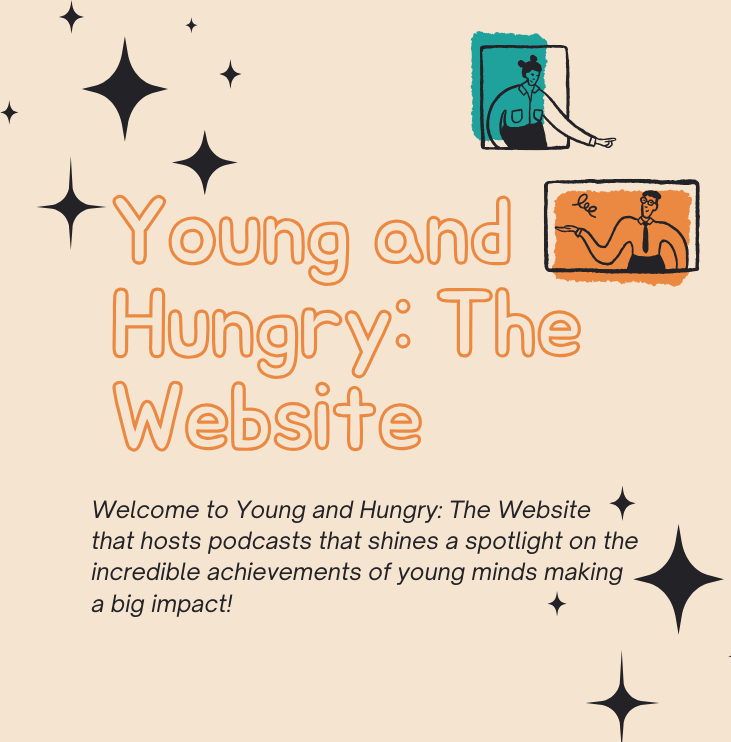
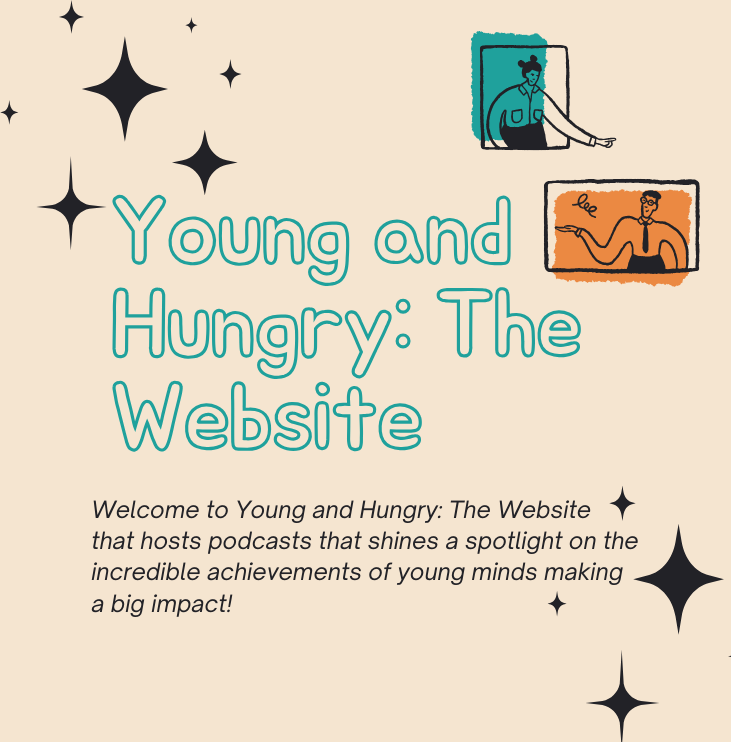
homepage completed

Changed region(s): [[0.1505, 0.248, 0.6019, 0.6199], [0.5116, 0.248, 0.8126, 0.496]]

diff --git a/frontend/src/pages/App.jsx b/frontend/src/pages/App.jsx
@@ -53,7 +53,9 @@ function App() {
 
   return (
 <div className="bg-[#f5e5d0] min-w-[538px] min-h-screen">
-<NavBar />
+  <div className="sticky top-0 z-50">
+    <NavBar />
+  </div>
       <header className="absolute inset-x-0 top-0 z-50">
         <Dialog open={mobileMenuOpen} onClose={setMobileMenuOpen} className="lg:hidden">
           <div className="fixed inset-0 z-50" />
@@ -106,8 +108,6 @@ function App() {
       <div
         className="relative isolate px-4 sm:px-6 pt-14 lg:px-8 bg-hero bg-cover bg-center bg-no-repeat min-h-[40vh] sm:min-h-[60vh] lg:min-h-[80vh] w-full"
       >
-
-
         <div
           aria-hidden="true"
           className="absolute inset-x-0 -top-40 -z-10 transform-gpu overflow-hidden blur-3xl sm:-top-80"
@@ -121,7 +121,7 @@ function App() {
         </div>
         <div className="mx-auto max-w-2xl py-32 sm:py-48 lg:py-56">
           <div className="hidden sm:mb-8 sm:flex sm:justify-center">
-            <div className="relative rounded-full px-3 py-1 text-sm/6 text-gray-600 ring-1 ring-gray-900/10 hover:ring-gray-900/20">
+            <div className="relative rounded-full px-3 py-1 text-sm/6 text-gray-600">
             &nbsp;
             </div>
           </div>
@@ -145,7 +145,7 @@ function App() {
           <div className="mt-10 sm:-mt-30">
             <a
               href={"#"}
-              className="bg-[#EB8942] text-white font-bold px-6 py-3 md:px-10 md:py-5 md:text-xl rounded-full border-2 border-black shadow-md hover:bg-[#e6b722] transition"
+              className="bg-[#EB8942] text-white font-bold px-6 py-3 md:px-10 md:py-5 md:text-xl rounded-full border-2 border-black shadow-[8px_8px_0px_rgba(0,0,0,1)] hover:bg-[#1FA19C] transition"
             >
               PODCASTS
             </a>
@@ -153,7 +153,7 @@ function App() {
           <div className="mt-6 sm:-mt-30">
             <a
               href={"#"}
-              className="bg-[#FFC72C] text-black font-bold px-6 py-3 md:px-10 md:py-5 md:text-xl rounded-full border-2 border-black shadow-md hover:bg-[#e6b722] transition"
+              className="bg-[#FFC72C] text-black font-bold px-6 py-3 md:px-10 md:py-5 md:text-xl rounded-full border-2 border-black shadow-[8px_8px_0px_rgba(0,0,0,1)] hover:bg-[#1FA19C] transition"
             >
               SEE MORE
             </a>
@@ -198,16 +198,14 @@ function App() {
                 </div>
 
                 {/* Podcast Title */}
-                <h3 className="mt-6 text-lg font-bold text-gray-900">
-                  <a href={product.href} className="hover:text-[#EB8942]">
-                    {product.name}
-                  </a>
+                <h3 className="mt-6 text-lg font-bold" style={{color: '#FA5857'}}>
+                  {product.name}
                 </h3>
 
                 {/* Podcast Description */}
                 <p className="text-gray-600 text-sm mt-2">
                   Mindy and Guy Raz head to the community swimming pool to try out for his DREAM JOB! 
-                  There’s just one problem; all the other applicants are SEA LIONS! Classic mix-up!
+                  There&apos;s just one problem; all the other applicants are SEA LIONS! Classic mix-up!
                 </p>
 
                 {/* "See More" Button */}
@@ -243,7 +241,7 @@ function App() {
         </div>
         <div className="mx-auto max-w-2xl py-48 sm:py-64 lg:py-72 max-h-2xl">
           <div className="hidden sm:mb-8 sm:flex sm:justify-center">
-            <div className="relative rounded-full px-3 py-1 text-sm/6 text-gray-600 ring-1 ring-gray-900/10 hover:ring-gray-900/20">
+            <div className="relative rounded-full px-3 py-1 text-sm/6 text-gray-600">
             &nbsp;
             </div>
           </div>
@@ -264,18 +262,18 @@ function App() {
 
         </div>
         <div className="flex flex-col sm:mt-10 sm:flex-row sm:justify-center justify-center items-center gap-3 mb-16 w-full px-6">
-          <div className="-mt-35 sm:-mt-82 sm:-ml-70">
+          <div className="-mt-15 sm:-mt-40 sm:-ml-70">
           <a
             href={"#"}
-            className="bg-[#EB8942] text-white font-bold px-6 py-3 md:px-10 md:py-5 md:text-xl rounded-full border-2 border-black shadow-md hover:bg-[#e6b722] transition"
+            className="bg-[#EB8942] text-white font-bold px-6 py-3 md:px-10 md:py-5 md:text-xl rounded-full border-2 border-black shadow-[8px_8px_0px_rgba(0,0,0,1)] hover:bg-[#FA5857] transition"
             >
             PARENTS
           </a>
         </div>
-        <div className="-mt-27 sm:-mt-82">
+        <div className="-mt-27 sm:-mt-40">
           <a
             href={"#"}
-            className="bg-[#FFC72C] text-black font-bold px-6 py-3 md:px-10 md:py-5 md:text-xl rounded-full border-2 border-black shadow-md hover:bg-[#e6b722] transition"
+            className="bg-[#FFC72C] text-black font-bold px-6 py-3 md:px-10 md:py-5 md:text-xl rounded-full border-2 border-black shadow-[8px_8px_0px_rgba(0,0,0,1)] hover:bg-[#FA5857] transition"
             >
             TEACHERS
           </a>
@@ -297,7 +295,47 @@ function App() {
         </div>
       </div>
 
-    </div>
+      <div className="bg-[#EB8942] py-16 border-b-5 border-black">
+        <div className=" mx-auto max-w-2xl px-4 pb-16 sm:px-6 lg:max-w-7xl lg:px-8">
+          <h1 className="underline decoration-dashed text-[50rem] font-bold text-center text-black" style={{marginBottom: '5rem', fontFamily: "Jua, sans-serif", fontSize: '5rem'}}>About Us</h1>
+
+          {/* Grid Layout for Podcasts */}
+          <div className="grid grid-cols-1 gap-8 sm:grid-cols-2 lg:grid-cols-2">
+              <div className="flex justify-center items-center">
+              <img className="justify-center rounded-full w-96 h-96 animate-[spin_5s_linear_infinite]" src="../../public/LogoAbout.png" alt="Young and Hungry Logo"/>
+
+              </div>
+              <div className="bg-[#ABE8DD] rounded-lg shadow-[8px_8px_0px_rgba(0,0,0,1)] border-4 border-black p-8">
+                <h2 className="text-3xl font-bold mb-4" style={{fontFamily: "Jua, sans-serif"}}>Welcome to Young and Hungry!</h2>
+                <p className="text-lg leading-relaxed">
+                Young and Hungry is hosted by Dr. Sean Young, a UC Irvine Emergency Medicine and Informatics professor, and his two kids.
+                <br></br>
+                <br></br>
+                Join us as we dive into the stories of extraordinary children who are already leaving their mark on the world, whether they&apos;re budding entrepreneurs, elite athletes, or future leaders in their fields.
+                <br></br>
+                <br></br>
+Each episode features inspiring conversations with these talented kids, exploring their journeys, challenges, and the support that has helped them along the way. Whether you're a parent, a teacher, or a young achiever yourself, Young and Hungry is your go-to source for inspiration and encouragement.
+                </p>
+                <div className="flex justify-center items-center">
+                <a
+                  href={"#"}
+                  className="bg-[#EB8942] text-white font-bold px-6 py-3 md:px-10 md:py-5 md:text-xl rounded-full border-2 border-black shadow-[8px_8px_0px_rgba(0,0,0,1)] hover:text-black hover:bg-[#FFC72C] transition"
+                  >
+                  LEARN MORE
+                </a>
+              </div>
+              </div>
+             
+              </div>
+            </div>    
+          </div>
+        <footer className="bg-[#FFC72C] text-black py-4 text-center">
+          <p>
+            &copy; 2025 Young and Hungry. All rights reserved.
+          </p>
+        </footer>
+  </div>
+
   )
 }
 

diff --git a/frontend/src/pages/Navbar.jsx b/frontend/src/pages/Navbar.jsx
@@ -2,10 +2,11 @@ import { Disclosure, DisclosureButton, DisclosurePanel, Menu, MenuButton, MenuIt
 import { Bars3Icon, BellIcon, XMarkIcon } from '@heroicons/react/24/outline'
 
 const navigation = [
-  { name: 'Dashboard', href: '#', current: true },
-  { name: 'Team', href: '#', current: false },
-  { name: 'Projects', href: '#', current: false },
-  { name: 'Calendar', href: '#', current: false },
+  { name: 'Home', href: '#', current: true },
+  { name: 'Podcast', href: '#', current: false },
+  { name: 'Newsletter', href: '#', current: false },
+  { name: 'Forum', href: '#', current: false },
+  { name: 'About', href: '#', current: false },
 ]
 
 function classNames(...classes) {
@@ -122,7 +123,7 @@ export default function Navbar() {
               aria-current={item.current ? 'page' : undefined}
               className={classNames(
                 item.current ? 'bg-[#EB8942] text-white' : 'text-[#f7ceb1] hover:bg-[#EB8942] hover:text-white',
-                'block rounded-md px-4 py-3 text-lg font-semibold'
+                'block rounded-full px-4 py-3 text-lg font-semibold w-full text-center'
               )}
             >
               {item.name}

diff --git a/frontend/src/style/App.css b/frontend/src/style/App.css
@@ -5,7 +5,8 @@
     background-image: url('../../public/BackgroundHero.png');
     background-size: 100% 100%;
     background-repeat: no-repeat;
-  }
+    alt: "Young and Hungry: The Website. Welcome to Young and Hungry: The Website that hosts podcasts that shines a spotlight on the incredible achievements of young minds making a big impact!";
+}
   
   @media (max-width: 731px) {
     .bg-hero {
@@ -18,6 +19,7 @@
     background-image: url('../../public/BackgroundSignUp.png');
     background-size: 100% 100%;
     background-repeat: no-repeat;
+    alt: "Sign Up to get the most out of: Young and Hungry";
   }
   
   @media (max-width: 731px) {
